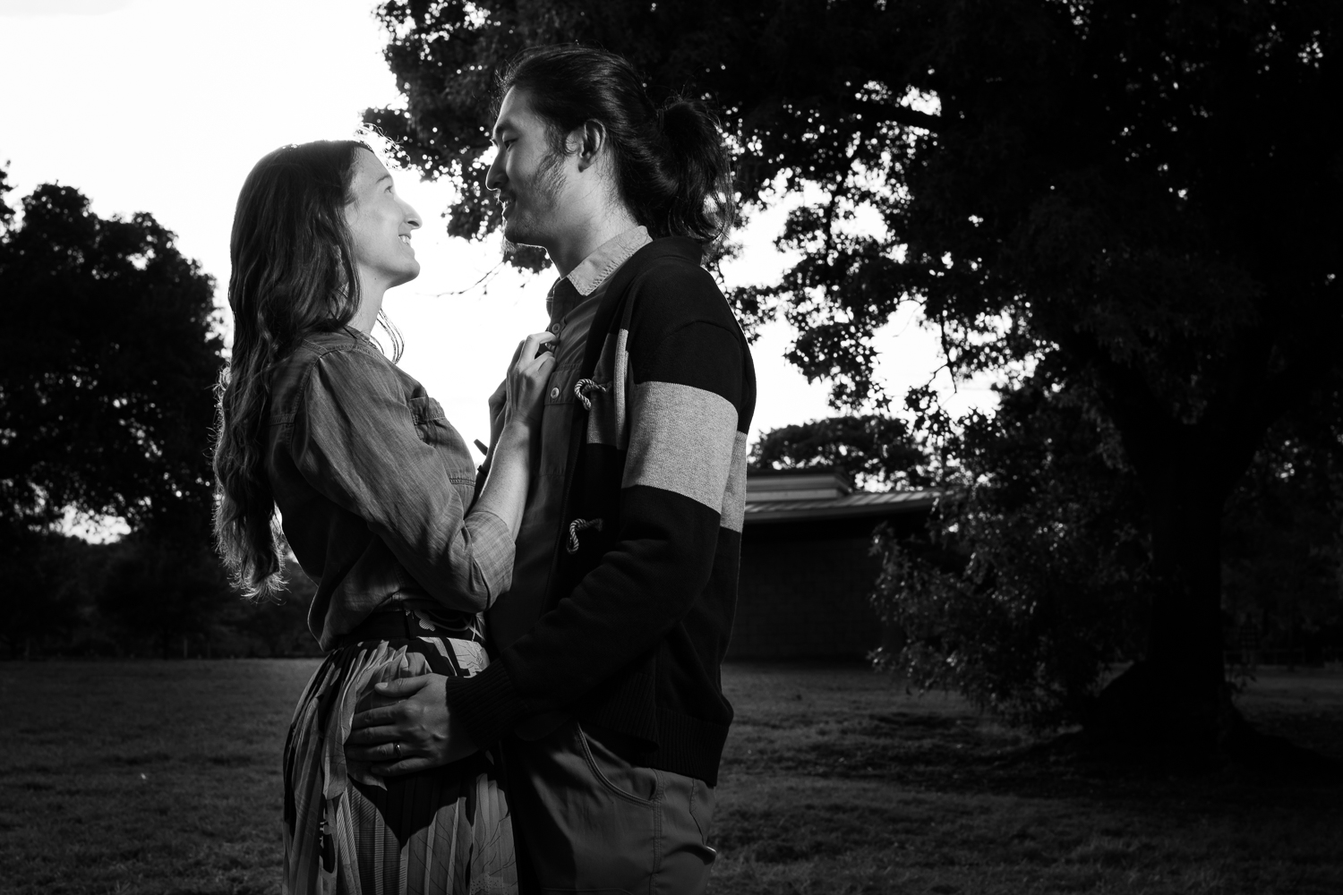
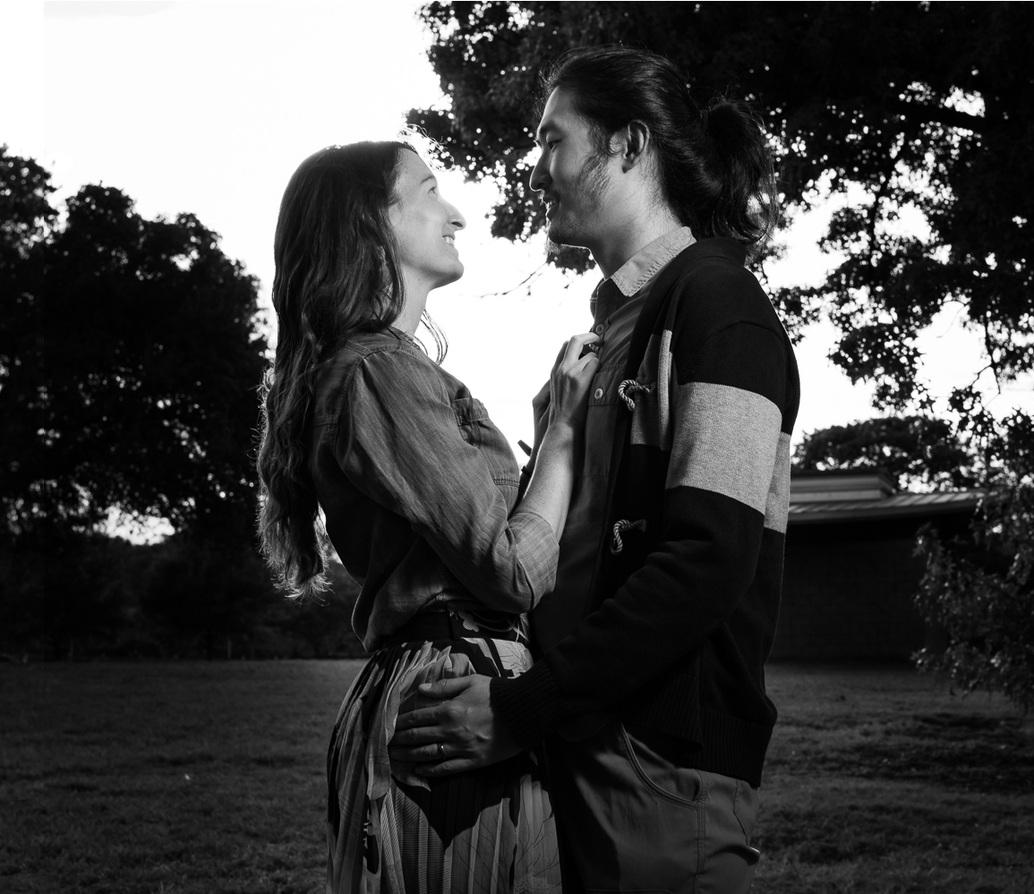
background image on wedding section

diff --git a/css/styles.min.css b/css/styles.min.css
@@ -1,1 +1,1 @@
-@import url(https://fonts.googleapis.com/css?family=Open+Sans:300italic,400italic,600italic,700italic,800italic,400,300,600,700,800);@import url(https://fonts.googleapis.com/css?family=Merriweather:400,300,400italic,300italic,700,700italic);@import url(https://fonts.googleapis.com/css?family=Nunito:400,300,700);p{font-size:15px;line-height:29px;color:rgba(28,54,83,0.6);padding-bottom:20px}h1{font-size:60px}h2{font-size:40px;font-weight:300;color:#3D4351}h3{color:#3D4351;font-size:18px;font-weight:700;text-transform:uppercase;letter-spacing:3px;line-height:29px}h4{font-size:18px}h5{font-size:15px;color:#3D4351;text-transform:uppercase;font-weight:500}.btn{font-size:13px;border:solid 2px;-moz-border-radius:40px;-webkit-border-radius:40px;border-radius:40px;display:inline-block;text-transform:uppercase}.btn:hover,.btn:focus{color:#fff;border-color:#e8ca6f;background-color:#e8ca6f}.btn-white{font-size:13px;border:solid 2px;-moz-border-radius:40px;-webkit-border-radius:40px;border-radius:40px;display:inline-block;border-color:#fff}.btn-white:hover,.btn-white:focus{color:#e8ca6f;border-color:#e8ca6f}.btn-fill{color:#fff;border:solid 2px #e8ca6f;-moz-border-radius:40px;-webkit-border-radius:40px;border-radius:40px;display:inline-block;text-transform:uppercase;background-color:#e8ca6f}.btn-fill:hover,.btn-fill:focus{color:#fff;background-color:#d3b56a;border-color:#d3b56a}.btn-small{padding:8px 30px}.btn-large{padding:15px 40px}.btn-margin-right{margin-right:20px}section.intro,section.features-extra,section.rsvp{background:#fff}section.features,section.events,section.blog{background:#f8f9fd}.group:after{content:"";display:table;clear:both}.no-padding{padding:0}.no-margin{margin:0}a{color:#e8ca6f;-webkit-transition-timing-function:ease;transition-timing-function:ease;-webkit-transition-duration:200ms;transition-duration:200ms;-webkit-transition-property:color, border-color, background-color;transition-property:color, border-color, background-color}a:hover,a:focus{color:#d3b56a;text-decoration:none}body{font-family:"Open Sans",sans-serif;font-weight:300;color:rgba(28,54,83,0.6);-webkit-text-size-adjust:100%}*:focus{outline:none !important}ul,ol{margin:0;padding:0}ul li{list-style:none}section .header{padding-bottom:30px}.section-padding{padding:40px 0}.section-border{border-bottom:1px solid #E6E9EA}.tooltip{position:absolute;z-index:1070;display:block;font-family:"Helvetica Neue", Helvetica, Arial, sans-serif;font-size:12px;font-weight:normal;line-height:1.4;visibility:visible;filter:alpha(opacity=0);opacity:0}.tooltip.in{filter:alpha(opacity=90);opacity:.9}.tooltip.top{padding:5px 0;margin-top:-3px}.tooltip.right{padding:0 5px;margin-left:3px}.tooltip.bottom{padding:5px 0;margin-top:3px}.tooltip.left{padding:0 5px;margin-left:-3px}.tooltip-inner{max-width:200px;padding:3px 8px;color:#fff;text-align:center;text-decoration:none;text-transform:capitalize;background-color:#000;border-radius:4px}.pulse2{animation-name:pulse2;animation-duration:1s;animation-iteration-count:infinite;animation-timing-function:linear}@keyframes pulse2{0%{transform:scale(1.1)}50%{transform:scale(0.8)}100%{transform:scale(1)}}.floating-arrow{animation-name:floating-arrow;animation-duration:2s;animation-iteration-count:infinite;animation-timing-function:ease-in-out}@keyframes floating-arrow{from{transform:translate(-50%, 0)}65%{transform:translate(-50%, 15px)}to{transform:translate(-50%, 0)}}.floating-logo{animation-name:floating-logo;animation-duration:2s;animation-iteration-count:infinite;animation-timing-function:ease-in-out}@keyframes floating-logo{from{transform:translate(-50%, 0)}50%{transform:translate(-50%, 10px)}to{transform:translate(-50%, 0)}}.wp1,.wp2,.wp3,.wp4,.wp5,.wp6,.wp7,.wp8,.wp9{visibility:hidden}.bounceInLeft,.bounceInRight,.fadeInUp,.fadeInUpDelay,.fadeInDown,.fadeInUpD,.fadeInLeft,.fadeInRight,.bounceInDown{visibility:visible}.header-nav.open{visibility:visible;opacity:0.9;-webkit-transition:opacity 0.5s;transition:opacity 0.5s}.nav-toggle{position:absolute;top:15px;right:15px;z-index:999999;padding:10px 35px 16px 0;cursor:pointer}.nav-toggle:focus{outline:none}.nav-toggle span,.nav-toggle span:before,.nav-toggle span:after{content:"";position:absolute;display:block;width:35px;height:3px;-moz-border-radius:1px;-webkit-border-radius:1px;border-radius:1px;background:#fff;cursor:pointer}.nav-toggle span:before{top:-10px}.nav-toggle span:after{bottom:-10px}.nav-toggle span,.nav-toggle span:before,.nav-toggle span:after{-moz-transition:all 300ms ease-in-out;-o-transition:all 300ms ease-in-out;-webkit-transition:all 300ms ease-in-out;transition:all 300ms ease-in-out}.nav-toggle.active span{background-color:transparent}.nav-toggle.active span:before,.nav-toggle.active span:after{top:0}.nav-toggle.active span:before{-moz-transform:rotate(45deg);-ms-transform:rotate(45deg);-o-transform:rotate(45deg);-webkit-transform:rotate(45deg);transform:rotate(45deg)}.nav-toggle.active span:after{top:10px;-moz-transform:translatey(-10px) rotate(-45deg);-ms-transform:translatey(-10px) rotate(-45deg);-o-transform:translatey(-10px) rotate(-45deg);-webkit-transform:translatey(-10px) rotate(-45deg);transform:translatey(-10px) rotate(-45deg)}.navicon{position:absolute;height:26px;right:10px;top:20px;visibility:hidden;transition:all 300ms ease-in-out}.hero{min-height:750px;background:url("../img/hero-min.jpg") center center;-webkit-background-size:cover;-moz-background-size:cover;-o-background-size:cover;background-size:cover;position:relative;height:100vh}.hero .down-arrow a{color:#fff}.hero h1{color:#fff;margin-bottom:40px}.hero p.intro{color:#fff;font-size:20px;font-weight:300;margin-bottom:80px}.hero .visible-highlight{background-color:rgba(0,0,0,0.5)}.hero .hero-content{bottom:0;left:0;right:0;position:absolute;width:100%}.hero .hero-content-container{height:100vh}.hero .hero-content img{width:55%;height:100%}.navigation{transition:all 300ms ease-in-out;position:fixed;width:100%;z-index:999;background-color:rgba(0,0,0,0.5)}.fixed{position:fixed;background-color:rgba(55,36,40,0.88);z-index:999;width:100%}header{padding:25px 0;border-bottom:solid 1px rgba(255,255,255,0.2);position:relative;width:1170px;margin:0 auto;transition:padding 300ms ease-in-out}header a{color:#fff;text-transform:uppercase;font-size:13px}header a.login{margin-right:20px}header .logo{display:inline-block}header .logo img{height:50px}header ul.primary-nav{margin:0 0 0 75px;padding:0}header ul.primary-nav li{display:inline}header ul.primary-nav li a{color:#fff;padding-right:12px;padding-left:12px}header ul.primary-nav li a:hover{color:#e8ca6f}header ul.member-actions li{display:inline}header ul.member-actions li a{color:#fff}header ul.member-actions li a:hover{color:#e8ca6f}header .header-nav{display:inline-block}header .member-actions{position:absolute;right:0;top:10px;transition:all 300ms ease-in-out}.down-arrow{color:#fff;font-size:30px;position:absolute;bottom:30px;left:50%;transform:translateX(-50%)}.share-bar{margin-top:20px}.intro span.icon{font-size:40px;color:#e8ca6f;font-weight:bold}.intro-icon{display:inline-block;vertical-align:top;padding:6px 0 0 0;margin-right:20px;width:40px}.intro-content{display:inline-block;width:80%}#intro{padding-top:40px}#intro img{width:100%;height:auto}#intro p{text-align:center}.features{position:relative}.features p{margin-bottom:0;padding-bottom:0}.features h3{margin:0 0 20px 0}.features span.icon{font-size:35px;color:#e8ca6f;font-weight:bold}.features .feature-icon{display:inline-block;vertical-align:top;padding:6px 0 0 0;margin-right:20px;width:35px}.features .feature-content{display:inline-block;width:75%}.features .intro-icon{display:inline-block;vertical-align:top;padding:6px 0 0 0;margin-right:20px}.features .intro-content{display:inline-block;width:80%}.features ul.features-stack{margin-top:50px}.features ul.features-stack li{margin-top:20px;padding-bottom:20px;border-bottom:solid 1px #E6E9EA}.features ul.features-stack li:last-child{padding-bottom:0px;border-bottom:none}.features .ipad-wrap{width:706px;height:1002px;background:url("../img/ipad-device.png") no-repeat center center;z-index:1}.features .iphone-wrap{width:304px;height:620px;background:url("../img/iphone6.png") no-repeat center center;position:absolute;left:530px;bottom:129px;z-index:2}.features .device-showcase{position:absolute;bottom:-365px;right:61%}.features .responsive-feature-img,.features-extra .responsive-feature-img{display:none}.devices{position:relative}.features-extra{position:relative;z-index:3}.features-extra .btn{margin-top:20px}.features-extra .macbook-wrap{position:absolute;width:916px;height:540px;background:url("../img/macbook-pro.png") no-repeat center center;top:114px;z-index:4;left:50%}.hero-strip{margin-top:120px;background:#333844 url("../img/polygonal-bg.jpg") no-repeat center center;padding-bottom:190px;position:relative}.hero-strip i{font-family:"Nunito",sans-serif;font-weight:300;font-size:25px;color:#F69D52;vertical-align:top;margin-left:-8px;font-style:normal}.hero-strip h2{color:#fff;margin:0 0 20px 0}.hero-strip p{color:#ACB1B4}.hero-strip .btn{margin-top:10px}.hero-strip .logo-placeholder{width:230px;height:230px;position:absolute;bottom:-285px;left:50%;transform:translateX(-50%)}.events .leftcol{padding-right:100px;border-right:solid 1px #E6E9EA}.events .rightcol{padding-left:100px}.events .time{font-size:13px;font-style:italic;text-transform:lowercase;color:rgba(28,54,83,0.6)}.blog{padding-bottom:120px}.blog img{width:100%;height:auto;-moz-transition:all 300ms ease-in-out;-o-transition:all 300ms ease-in-out;-webkit-transition:all 300ms ease-in-out;transition:all 300ms ease-in-out}.blog h2{font-size:11px;color:#ACB1B4;font-weight:500;text-transform:uppercase;margin-top:35px}.blog .btn{margin-top:20px}.blog .blog-img-wrap{position:relative;overflow:hidden}.blog .blog-img-wrap .overlay{position:absolute;width:100%;height:100%;background-color:rgba(255,255,255,0.5);-moz-transition:all 300ms ease-in-out;-o-transition:all 300ms ease-in-out;-webkit-transition:all 300ms ease-in-out;transition:all 300ms ease-in-out;-ms-filter:"progid:DXImageTransform.Microsoft.Alpha(Opacity=0)";filter:alpha(opacity=0);opacity:0}.blog .blog-img-wrap i{color:#fff;font-size:20px;position:absolute;width:20px;height:20px;top:25px;right:35px}.blog .blog-img-wrap:hover img,.blog .blog-img-wrap:focus img{-moz-transform:scale(1.1);-ms-transform:scale(1.1);-o-transform:scale(1.1);-webkit-transform:scale(1.1);transform:scale(1.1)}.blog .blog-img-wrap:hover .overlay,.blog .blog-img-wrap:focus .overlay{-ms-filter:"progid:DXImageTransform.Microsoft.Alpha(Opacity=1)";filter:alpha(opacity=1);opacity:1;z-index:9}.blog figcaption i{margin-left:5px;font-size:15px}.blog figcaption a.blog-post-title{color:rgba(28,54,83,0.6)}.blog figcaption a.blog-post-title:hover,.blog figcaption a.blog-post-title:focus{color:#3D4351}.hero-2-background{background:url("../img/hero-2.jpg") center center;background-position:0 0}#instagram img{width:100%}#eng-pics img{width:100%;height:auto;-moz-transition:all 300ms ease-in-out;-o-transition:all 300ms ease-in-out;-webkit-transition:all 300ms ease-in-out;transition:all 300ms ease-in-out}#eng-pics .img-wrap{position:relative;overflow:hidden;border-radius:4px}#eng-pics .img-wrap .overlay{position:absolute;width:100%;height:100%;background-color:rgba(255,255,255,0.5);-moz-transition:all 300ms ease-in-out;-o-transition:all 300ms ease-in-out;-webkit-transition:all 300ms ease-in-out;transition:all 300ms ease-in-out;-ms-filter:"progid:DXImageTransform.Microsoft.Alpha(Opacity=0)";filter:alpha(opacity=0);opacity:0}#eng-pics .img-wrap i{color:#fff;font-size:15px;position:absolute;width:15px;height:15px;top:6px;right:6px}#eng-pics .img-wrap:hover img,#eng-pics .img-wrap:focus img{-moz-transform:scale(1.1);-ms-transform:scale(1.1);-o-transform:scale(1.1);-webkit-transform:scale(1.1);transform:scale(1.1)}#eng-pics .img-wrap:hover .overlay,#eng-pics .img-wrap:focus .overlay{-ms-filter:"progid:DXImageTransform.Microsoft.Alpha(Opacity=1)";filter:alpha(opacity=1);opacity:1;z-index:9}#eng-pics .diamond{width:230px;height:230px;position:absolute;bottom:-145px;left:50%;transform:translateX(-50%);z-index:500}#eng-pics .ring{width:75px;height:75px;border-radius:75px;border:10px solid #d0d3d4;position:absolute;left:34%;top:75%;z-index:-1}#video-bg{height:300px}#video-content{width:100%;height:100%;padding-top:100px;padding-bottom:100px;position:relative;background:rgba(17,17,17,0.5);text-align:center}#video-content h5{color:#ffffff;font-size:30px;font-weight:300;letter-spacing:10px}#video-content p{color:#ffffff}#map-canvas{height:500px;width:100%}#map-content-wrapper{position:relative;margin-top:-502px;margin-bottom:150px}#map-content{margin-top:40px;padding:50px 60px;background:#fff;-webkit-transition:opacity 0.5s, visibility 0.6s, margin-top 0.5s;transition:opacity 0.5s, visibility 0.6s, margin-top 0.5s}#btn-show-content{padding:20px;background:#fff;cursor:pointer;display:inline-block;-webkit-transition:opacity 0.5s, visibility 0.6s, margin-top 0.5s;transition:opacity 0.5s, visibility 0.6s, margin-top 0.5s}.toggle-map-content{opacity:0;visibility:hidden}.pointer-events-none{pointer-events:none}.pointer-events-auto{pointer-events:auto}.rsvp{padding-bottom:140px}.rsvp .rsvp-form .rsvp-btn{padding:15px 0;border-radius:3px;width:100%;font-size:13px}.rsvp .rsvp-form .form-input-group{width:100%;height:55px;margin:0 auto 10px;-moz-border-radius:5px;-webkit-border-radius:5px;border-radius:5px;border:solid 1px #E6E9EA;text-align:left;position:relative}.rsvp .rsvp-form .form-input-group i{color:#e8ca6f;font-size:14px}.rsvp .rsvp-form .form-input-group i:after{content:"";height:30px;width:1px;border-right:solid 1px #E6E9EA;position:absolute;top:50%;left:30px;transform:translateY(-50%)}.rsvp .rsvp-form .form-input-group i.fa-user,.rsvp .rsvp-form .form-input-group i.fa-users,.rsvp .rsvp-form .form-input-group i.fa-envelope,.rsvp .rsvp-form .form-input-group .fa-key,.rsvp .rsvp-form .form-input-group .fa-phone{font-size:14px;position:absolute;top:50%;transform:translateY(-50%);margin-left:20px}.rsvp .rsvp-form .form-input-group input{padding-left:68px;width:100%;height:100%;-moz-border-radius:6px;-webkit-border-radius:6px;border-radius:6px;border:none}.rsvp .rsvp-form .form-input-group input::-webkit-input-placeholder{color:#BCC1C3}.rsvp .rsvp-form .form-input-group input:-moz-placeholder{color:#BCC1C3}.rsvp .rsvp-form .form-input-group input::-moz-placeholder{color:#BCC1C3}.rsvp .rsvp-form .form-input-group input:-ms-input-placeholder{color:#BCC1C3}footer .content{border-top:1px solid #E6E9EA;padding-bottom:20px}footer .to-top-wrapper{font-size:30px;display:block;cursor:pointer;margin:-25px auto 50px;border-radius:50%;width:50px;height:50px;border:1px solid #E6E9EA;background:#fff}footer .to-top-wrapper .to-top{display:block;-webkit-transition:all .3s ease-in-out;-moz-transition:all .3s ease-in-out;-ms-transition:all .3s ease-in-out;-o-transition:all .3s ease-in-out;transition:all .3s ease-in-out}footer .to-top-wrapper .to-top:hover{margin-top:-5px}footer span.fa-heart{color:#ff415c;font-size:18px;margin:0 2px}body.modal-open{padding-right:0 !important}.modal-body{padding:25px}.center-text{text-align:center}
+@import url(https://fonts.googleapis.com/css?family=Open+Sans:300italic,400italic,600italic,700italic,800italic,400,300,600,700,800);@import url(https://fonts.googleapis.com/css?family=Merriweather:400,300,400italic,300italic,700,700italic);@import url(https://fonts.googleapis.com/css?family=Nunito:400,300,700);p{font-size:15px;line-height:29px;color:rgba(28,54,83,0.6);padding-bottom:20px}h1{font-size:60px}h2{font-size:40px;font-weight:300;color:#3D4351}h3{color:#3D4351;font-size:18px;font-weight:700;text-transform:uppercase;letter-spacing:3px;line-height:29px}h4{font-size:18px}h5{font-size:15px;color:#3D4351;text-transform:uppercase;font-weight:500}.btn{font-size:13px;border:solid 2px;-moz-border-radius:40px;-webkit-border-radius:40px;border-radius:40px;display:inline-block;text-transform:uppercase}.btn:hover,.btn:focus{color:#fff;border-color:#e8ca6f;background-color:#e8ca6f}.btn-white{font-size:13px;border:solid 2px;-moz-border-radius:40px;-webkit-border-radius:40px;border-radius:40px;display:inline-block;border-color:#fff}.btn-white:hover,.btn-white:focus{color:#e8ca6f;border-color:#e8ca6f}.btn-fill{color:#fff;border:solid 2px #e8ca6f;-moz-border-radius:40px;-webkit-border-radius:40px;border-radius:40px;display:inline-block;text-transform:uppercase;background-color:#e8ca6f}.btn-fill:hover,.btn-fill:focus{color:#fff;background-color:#d3b56a;border-color:#d3b56a}.btn-small{padding:8px 30px}.btn-large{padding:15px 40px}.btn-margin-right{margin-right:20px}section.intro,section.features-extra,section.rsvp{background:#fff}section.features,section.events,section.blog{background:#f8f9fd}.group:after{content:"";display:table;clear:both}.no-padding{padding:0}.no-margin{margin:0}a{color:#e8ca6f;-webkit-transition-timing-function:ease;transition-timing-function:ease;-webkit-transition-duration:200ms;transition-duration:200ms;-webkit-transition-property:color, border-color, background-color;transition-property:color, border-color, background-color}a:hover,a:focus{color:#d3b56a;text-decoration:none}body{font-family:"Open Sans",sans-serif;font-weight:300;color:rgba(28,54,83,0.6);-webkit-text-size-adjust:100%}*:focus{outline:none !important}ul,ol{margin:0;padding:0}ul li{list-style:none}section .header{padding-bottom:30px}.section-padding{padding:40px 0}.section-border{border-bottom:1px solid #E6E9EA}.tooltip{position:absolute;z-index:1070;display:block;font-family:"Helvetica Neue", Helvetica, Arial, sans-serif;font-size:12px;font-weight:normal;line-height:1.4;visibility:visible;filter:alpha(opacity=0);opacity:0}.tooltip.in{filter:alpha(opacity=90);opacity:.9}.tooltip.top{padding:5px 0;margin-top:-3px}.tooltip.right{padding:0 5px;margin-left:3px}.tooltip.bottom{padding:5px 0;margin-top:3px}.tooltip.left{padding:0 5px;margin-left:-3px}.tooltip-inner{max-width:200px;padding:3px 8px;color:#fff;text-align:center;text-decoration:none;text-transform:capitalize;background-color:#000;border-radius:4px}.pulse2{animation-name:pulse2;animation-duration:1s;animation-iteration-count:infinite;animation-timing-function:linear}@keyframes pulse2{0%{transform:scale(1.1)}50%{transform:scale(0.8)}100%{transform:scale(1)}}.floating-arrow{animation-name:floating-arrow;animation-duration:2s;animation-iteration-count:infinite;animation-timing-function:ease-in-out}@keyframes floating-arrow{from{transform:translate(-50%, 0)}65%{transform:translate(-50%, 15px)}to{transform:translate(-50%, 0)}}.floating-logo{animation-name:floating-logo;animation-duration:2s;animation-iteration-count:infinite;animation-timing-function:ease-in-out}@keyframes floating-logo{from{transform:translate(-50%, 0)}50%{transform:translate(-50%, 10px)}to{transform:translate(-50%, 0)}}.wp1,.wp2,.wp3,.wp4,.wp5,.wp6,.wp7,.wp8,.wp9{visibility:hidden}.bounceInLeft,.bounceInRight,.fadeInUp,.fadeInUpDelay,.fadeInDown,.fadeInUpD,.fadeInLeft,.fadeInRight,.bounceInDown{visibility:visible}.header-nav.open{visibility:visible;opacity:0.9;-webkit-transition:opacity 0.5s;transition:opacity 0.5s}.nav-toggle{position:absolute;top:15px;right:15px;z-index:999999;padding:10px 35px 16px 0;cursor:pointer}.nav-toggle:focus{outline:none}.nav-toggle span,.nav-toggle span:before,.nav-toggle span:after{content:"";position:absolute;display:block;width:35px;height:3px;-moz-border-radius:1px;-webkit-border-radius:1px;border-radius:1px;background:#fff;cursor:pointer}.nav-toggle span:before{top:-10px}.nav-toggle span:after{bottom:-10px}.nav-toggle span,.nav-toggle span:before,.nav-toggle span:after{-moz-transition:all 300ms ease-in-out;-o-transition:all 300ms ease-in-out;-webkit-transition:all 300ms ease-in-out;transition:all 300ms ease-in-out}.nav-toggle.active span{background-color:transparent}.nav-toggle.active span:before,.nav-toggle.active span:after{top:0}.nav-toggle.active span:before{-moz-transform:rotate(45deg);-ms-transform:rotate(45deg);-o-transform:rotate(45deg);-webkit-transform:rotate(45deg);transform:rotate(45deg)}.nav-toggle.active span:after{top:10px;-moz-transform:translatey(-10px) rotate(-45deg);-ms-transform:translatey(-10px) rotate(-45deg);-o-transform:translatey(-10px) rotate(-45deg);-webkit-transform:translatey(-10px) rotate(-45deg);transform:translatey(-10px) rotate(-45deg)}.navicon{position:absolute;height:26px;right:10px;top:20px;visibility:hidden;transition:all 300ms ease-in-out}.hero{min-height:750px;background:url("../img/hero-min.jpg") center center;-webkit-background-size:cover;-moz-background-size:cover;-o-background-size:cover;background-size:cover;position:relative;height:100vh}.hero .down-arrow a{color:#fff}.hero h1{color:#fff;margin-bottom:40px}.hero p.intro{color:#fff;font-size:20px;font-weight:300;margin-bottom:80px}.hero .visible-highlight{background-color:rgba(0,0,0,0.5)}.hero .hero-content{bottom:0;left:0;right:0;position:absolute;width:100%}.hero .hero-content-container{height:100vh}.hero .hero-content img{width:55%;height:100%}.navigation{transition:all 300ms ease-in-out;position:fixed;width:100%;z-index:999;background-color:rgba(0,0,0,0.5)}.fixed{position:fixed;background-color:rgba(55,36,40,0.88);z-index:999;width:100%}header{padding:25px 0;border-bottom:solid 1px rgba(255,255,255,0.2);position:relative;width:1170px;margin:0 auto;transition:padding 300ms ease-in-out}header a{color:#fff;text-transform:uppercase;font-size:13px}header a.login{margin-right:20px}header .logo{display:inline-block}header .logo img{height:50px}header ul.primary-nav{margin:0 0 0 75px;padding:0}header ul.primary-nav li{display:inline}header ul.primary-nav li a{color:#fff;padding-right:12px;padding-left:12px}header ul.primary-nav li a:hover{color:#e8ca6f}header ul.member-actions li{display:inline}header ul.member-actions li a{color:#fff}header ul.member-actions li a:hover{color:#e8ca6f}header .header-nav{display:inline-block}header .member-actions{position:absolute;right:0;top:10px;transition:all 300ms ease-in-out}.down-arrow{color:#fff;font-size:30px;position:absolute;bottom:30px;left:50%;transform:translateX(-50%)}.share-bar{margin-top:20px}.intro span.icon{font-size:40px;color:#e8ca6f;font-weight:bold}.intro-icon{display:inline-block;vertical-align:top;padding:6px 0 0 0;margin-right:20px;width:40px}.intro-content{display:inline-block;width:80%}#intro{padding-top:40px}#intro img{width:100%;height:auto}#intro p{text-align:center}.features{position:relative}.features p{margin-bottom:0;padding-bottom:0}.features h3{margin:0 0 20px 0}.features span.icon{font-size:35px;color:#e8ca6f;font-weight:bold}.features .feature-icon{display:inline-block;vertical-align:top;padding:6px 0 0 0;margin-right:20px;width:35px}.features .feature-content{display:inline-block;width:75%}.features .intro-icon{display:inline-block;vertical-align:top;padding:6px 0 0 0;margin-right:20px}.features .intro-content{display:inline-block;width:80%}.features ul.features-stack{margin-top:50px}.features ul.features-stack li{margin-top:20px;padding-bottom:20px;border-bottom:solid 1px #E6E9EA}.features ul.features-stack li:last-child{padding-bottom:0px;border-bottom:none}.features .ipad-wrap{width:706px;height:1002px;background:url("../img/ipad-device.png") no-repeat center center;z-index:1}.features .iphone-wrap{width:304px;height:620px;background:url("../img/iphone6.png") no-repeat center center;position:absolute;left:530px;bottom:129px;z-index:2}.features .device-showcase{position:absolute;bottom:-365px;right:61%}.features .responsive-feature-img,.features-extra .responsive-feature-img{display:none}.devices{position:relative}.features-extra{position:relative;z-index:3}.features-extra .btn{margin-top:20px}.features-extra .macbook-wrap{position:absolute;width:916px;height:540px;background:url("../img/macbook-pro.png") no-repeat center center;top:114px;z-index:4;left:50%}.hero-strip{margin-top:120px;background:#333844 url("../img/polygonal-bg.jpg") no-repeat center center;padding-bottom:190px;position:relative}.hero-strip i{font-family:"Nunito",sans-serif;font-weight:300;font-size:25px;color:#F69D52;vertical-align:top;margin-left:-8px;font-style:normal}.hero-strip h2{color:#fff;margin:0 0 20px 0}.hero-strip p{color:#ACB1B4}.hero-strip .btn{margin-top:10px}.hero-strip .logo-placeholder{width:230px;height:230px;position:absolute;bottom:-285px;left:50%;transform:translateX(-50%)}.events .leftcol{padding-right:100px;border-right:solid 1px #E6E9EA}.events .rightcol{padding-left:100px}.events .time{font-size:13px;font-style:italic;text-transform:lowercase;color:rgba(28,54,83,0.6)}.blog{padding-bottom:120px}.blog img{width:100%;height:auto;-moz-transition:all 300ms ease-in-out;-o-transition:all 300ms ease-in-out;-webkit-transition:all 300ms ease-in-out;transition:all 300ms ease-in-out}.blog h2{font-size:11px;color:#ACB1B4;font-weight:500;text-transform:uppercase;margin-top:35px}.blog .btn{margin-top:20px}.blog .blog-img-wrap{position:relative;overflow:hidden}.blog .blog-img-wrap .overlay{position:absolute;width:100%;height:100%;background-color:rgba(255,255,255,0.5);-moz-transition:all 300ms ease-in-out;-o-transition:all 300ms ease-in-out;-webkit-transition:all 300ms ease-in-out;transition:all 300ms ease-in-out;-ms-filter:"progid:DXImageTransform.Microsoft.Alpha(Opacity=0)";filter:alpha(opacity=0);opacity:0}.blog .blog-img-wrap i{color:#fff;font-size:20px;position:absolute;width:20px;height:20px;top:25px;right:35px}.blog .blog-img-wrap:hover img,.blog .blog-img-wrap:focus img{-moz-transform:scale(1.1);-ms-transform:scale(1.1);-o-transform:scale(1.1);-webkit-transform:scale(1.1);transform:scale(1.1)}.blog .blog-img-wrap:hover .overlay,.blog .blog-img-wrap:focus .overlay{-ms-filter:"progid:DXImageTransform.Microsoft.Alpha(Opacity=1)";filter:alpha(opacity=1);opacity:1;z-index:9}.blog figcaption i{margin-left:5px;font-size:15px}.blog figcaption a.blog-post-title{color:rgba(28,54,83,0.6)}.blog figcaption a.blog-post-title:hover,.blog figcaption a.blog-post-title:focus{color:#3D4351}.hero-2-background{background:url("../img/hero-2.jpg") center top;-webkit-background-size:cover;-moz-background-size:cover;-o-background-size:cover;background-size:cover}#instagram img{width:100%}#eng-pics img{width:100%;height:auto;-moz-transition:all 300ms ease-in-out;-o-transition:all 300ms ease-in-out;-webkit-transition:all 300ms ease-in-out;transition:all 300ms ease-in-out}#eng-pics .img-wrap{position:relative;overflow:hidden;border-radius:4px}#eng-pics .img-wrap .overlay{position:absolute;width:100%;height:100%;background-color:rgba(255,255,255,0.5);-moz-transition:all 300ms ease-in-out;-o-transition:all 300ms ease-in-out;-webkit-transition:all 300ms ease-in-out;transition:all 300ms ease-in-out;-ms-filter:"progid:DXImageTransform.Microsoft.Alpha(Opacity=0)";filter:alpha(opacity=0);opacity:0}#eng-pics .img-wrap i{color:#fff;font-size:15px;position:absolute;width:15px;height:15px;top:6px;right:6px}#eng-pics .img-wrap:hover img,#eng-pics .img-wrap:focus img{-moz-transform:scale(1.1);-ms-transform:scale(1.1);-o-transform:scale(1.1);-webkit-transform:scale(1.1);transform:scale(1.1)}#eng-pics .img-wrap:hover .overlay,#eng-pics .img-wrap:focus .overlay{-ms-filter:"progid:DXImageTransform.Microsoft.Alpha(Opacity=1)";filter:alpha(opacity=1);opacity:1;z-index:9}#eng-pics .diamond{width:230px;height:230px;position:absolute;bottom:-145px;left:50%;transform:translateX(-50%);z-index:500}#eng-pics .ring{width:75px;height:75px;border-radius:75px;border:10px solid #d0d3d4;position:absolute;left:34%;top:75%;z-index:-1}#video-bg{height:300px}#video-content{width:100%;height:100%;padding-top:100px;padding-bottom:100px;position:relative;background:rgba(17,17,17,0.5);text-align:center}#video-content h5{color:#ffffff;font-size:30px;font-weight:300;letter-spacing:10px}#video-content p{color:#ffffff}#map-canvas{height:500px;width:100%}#map-content-wrapper{position:relative;margin-top:-502px;margin-bottom:150px}#map-content{margin-top:40px;padding:50px 60px;background:#fff;-webkit-transition:opacity 0.5s, visibility 0.6s, margin-top 0.5s;transition:opacity 0.5s, visibility 0.6s, margin-top 0.5s}#btn-show-content{padding:20px;background:#fff;cursor:pointer;display:inline-block;-webkit-transition:opacity 0.5s, visibility 0.6s, margin-top 0.5s;transition:opacity 0.5s, visibility 0.6s, margin-top 0.5s}.toggle-map-content{opacity:0;visibility:hidden}.pointer-events-none{pointer-events:none}.pointer-events-auto{pointer-events:auto}.rsvp{padding-bottom:140px}.rsvp .rsvp-form .rsvp-btn{padding:15px 0;border-radius:3px;width:100%;font-size:13px}.rsvp .rsvp-form .form-input-group{width:100%;height:55px;margin:0 auto 10px;-moz-border-radius:5px;-webkit-border-radius:5px;border-radius:5px;border:solid 1px #E6E9EA;text-align:left;position:relative}.rsvp .rsvp-form .form-input-group i{color:#e8ca6f;font-size:14px}.rsvp .rsvp-form .form-input-group i:after{content:"";height:30px;width:1px;border-right:solid 1px #E6E9EA;position:absolute;top:50%;left:30px;transform:translateY(-50%)}.rsvp .rsvp-form .form-input-group i.fa-user,.rsvp .rsvp-form .form-input-group i.fa-users,.rsvp .rsvp-form .form-input-group i.fa-envelope,.rsvp .rsvp-form .form-input-group .fa-key,.rsvp .rsvp-form .form-input-group .fa-phone{font-size:14px;position:absolute;top:50%;transform:translateY(-50%);margin-left:20px}.rsvp .rsvp-form .form-input-group input{padding-left:68px;width:100%;height:100%;-moz-border-radius:6px;-webkit-border-radius:6px;border-radius:6px;border:none}.rsvp .rsvp-form .form-input-group input::-webkit-input-placeholder{color:#BCC1C3}.rsvp .rsvp-form .form-input-group input:-moz-placeholder{color:#BCC1C3}.rsvp .rsvp-form .form-input-group input::-moz-placeholder{color:#BCC1C3}.rsvp .rsvp-form .form-input-group input:-ms-input-placeholder{color:#BCC1C3}footer .content{border-top:1px solid #E6E9EA;padding-bottom:20px}footer .to-top-wrapper{font-size:30px;display:block;cursor:pointer;margin:-25px auto 50px;border-radius:50%;width:50px;height:50px;border:1px solid #E6E9EA;background:#fff}footer .to-top-wrapper .to-top{display:block;-webkit-transition:all .3s ease-in-out;-moz-transition:all .3s ease-in-out;-ms-transition:all .3s ease-in-out;-o-transition:all .3s ease-in-out;transition:all .3s ease-in-out}footer .to-top-wrapper .to-top:hover{margin-top:-5px}footer span.fa-heart{color:#ff415c;font-size:18px;margin:0 2px}body.modal-open{padding-right:0 !important}.modal-body{padding:25px}.center-text{text-align:center}

diff --git a/sass/styles.scss b/sass/styles.scss
@@ -652,8 +652,11 @@ Features-stack
 }
 
 .hero-2-background {
-  background: url('../img/hero-2.jpg') center center;
-  background-position: 0 0;
+  background: url('../img/hero-2.jpg') center top;
+  -webkit-background-size: cover;
+  -moz-background-size: cover;
+  -o-background-size: cover;
+  background-size: cover;
 }
 
 /* ==========================================================================

diff --git a/index.html b/index.html
@@ -112,7 +112,7 @@
     </div>
 </section>
 
-<section class="events section-padding hero-2-background" id="events">
+<section class="section-padding hero-2-background" id="events">
     <div class="container">
         <div class="row">
             <div class="col-md-12 text-center">
